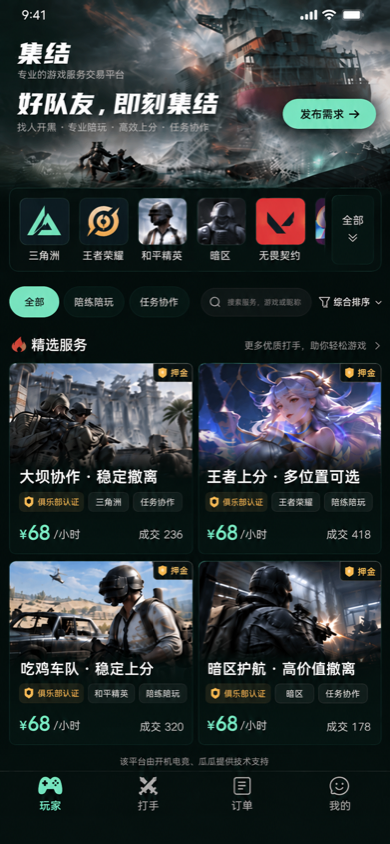
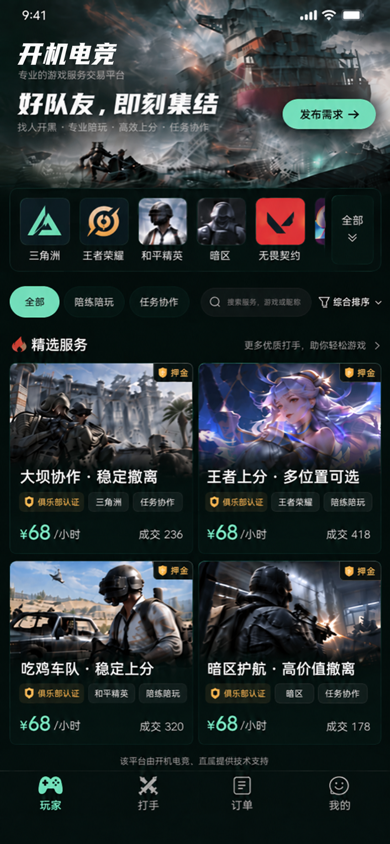
同步开机电竞品牌与本轮功能设计图

diff --git a/design/pages/main/player/player.design.md b/design/pages/main/player/player.design.md
@@ -24,6 +24,6 @@ Use case: ui-mockup. Precise local edit of approved Chinese 开机电竞 WeChat 
 
 共享押金短标以本轮规则为准：封面右上贴边、黑金实心盾牌、仅左下圆角；短标8px字、11px图标、最小高18px，背景rgba(24,21,14,0.76)，金额版保留11px字和24px最小高度。旧图下绿色钱包押金行、标签在标题上均不恢复；标题在上、标签在下。金额与资格只取当前服务端结果。
 
-当前PNG保留本分支最新功能结构；品牌文字若仍为旧名，仅作结构参考，实际产品使用上述开机电竞品牌和口号。不得为品牌回退卡片与押金布局。好友、朋友圈和实时海报继续共用分享入口及真实小程序码。
+当前PNG以本分支最新功能图为目标，使用内置ImageGen仅将左上品牌改为开机电竞，再机械缩放至390×844；已逐图确认保留黑金右上角标及标题在标签上方。原图大标题保持输入图原样，实际产品口号以上述“开机即组队，一起赢”为准。不得为品牌回退卡片与押金布局。好友、朋友圈和实时海报继续共用分享入口及真实小程序码。
 
 品牌局部编辑提示词：Use case: text-localization. Change only the top-left product brand 集结 to 开机电竞 in the approved 390x844 design. Preserve the latest top-right black-gold shield badges, title-above-tags cover layers, game artwork, prices, spacing and all other geometry. Do not restore the old image-below deposit row.

diff --git a/design/pages/main/worker/worker.design.md b/design/pages/main/worker/worker.design.md
@@ -18,7 +18,7 @@ Use case: ui-mockup. Precise local edit of approved Chinese 开机电竞 WeChat 
 
 ## 品牌名称更新与当前布局优先级（2026-10-23）
 
-品牌说明统一为“在开机电竞，用游戏技能赚取真实回报”。只替换公共名称，不恢复用户已删除的顶部身份、经营统计、大插画或底部俱乐部banner；继续使用“我的服务 / 接单大厅 / 加入俱乐部”三个同级页签与本轮轻量俱乐部条目。当前PNG按最新功能结构优先；若小字仍有旧品牌，以本说明文案为准，不能选用旧布局图片覆盖。
+品牌说明统一为“在开机电竞，用游戏技能赚取真实回报”。只替换公共名称，不恢复用户已删除的顶部身份、经营统计、大插画或底部俱乐部banner；继续使用“我的服务 / 接单大厅 / 加入俱乐部”三个同级页签与本轮轻量俱乐部条目。当前PNG以本分支最新功能图为目标，使用内置ImageGen仅替换该品牌说明，再机械缩放至390×844；已逐图确认三页签、轻量俱乐部条目和精简布局均保留，不能选用旧布局图片覆盖。
 
 所有用户默认具备接单身份且不可关闭，无休息中、去开启或账户启停开关；单个服务的审核、上架与暂停仍是独立业务。访客能浏览公开服务及俱乐部，不做整页登录墙；手机号、冻结、资料和实际交易权限继续由服务端核验。
 
